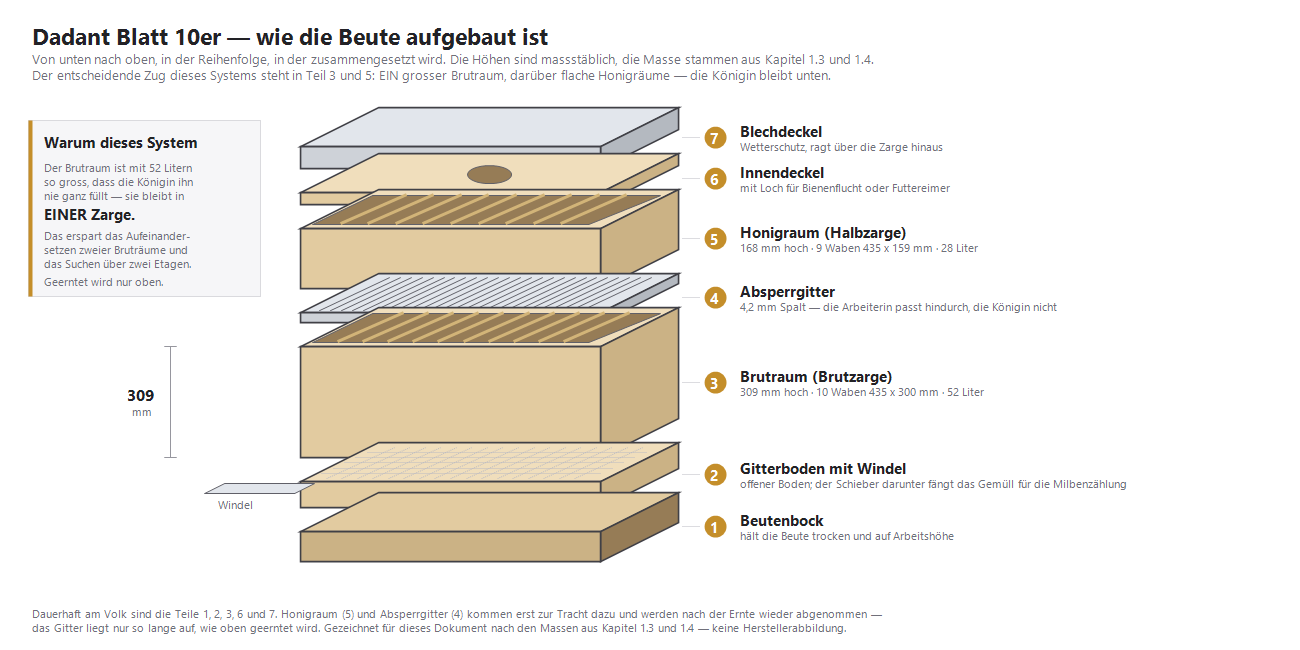
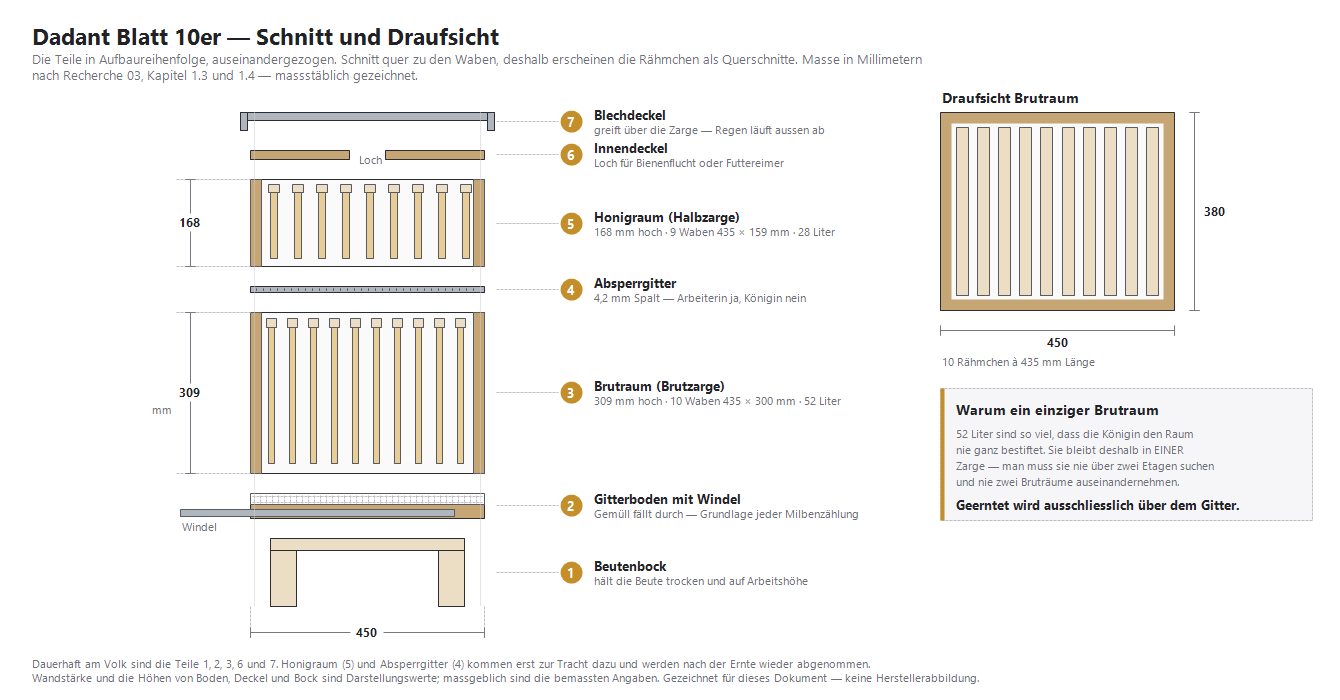
v1.52.0: Bildansicht nutzt den ganzen Bildschirm + Dadant als Schnittzeichnung
Die Vollbild-Ansicht zog sich bisher auf die Bildgrösse zusammen. Bei einer
breiten, flachen Zeichnung blieb dadurch ein schmaler Streifen mit viel
leerem Rand — das Gegenteil von "gross ansehen". Jetzt füllt das Bild die
ganze Fläche; Beschriftung und Schaltflächen liegen darüber statt daneben.

Neuer Test misst, dass die Ansicht wirklich Bildschirmgrösse hat. Er wurde
mit einem geschrumpften Dialog rot gemacht — beim ersten Versuch war die
Gegenprobe selbst fehlerhaft (das sed traf nichts), was zunächst wie ein
untauglicher Guard aussah.

Dazu die neu gezeichnete Dadant-Darstellung (Details im Imkerei-Repo).

375 Tests grün, analyze clean, live verifiziert.

diff --git a/lib/shared/widgets/bild_vollbild.dart b/lib/shared/widgets/bild_vollbild.dart
@@ -1,13 +1,18 @@
 import 'package:flutter/material.dart';
 import 'package:bienen_app/core/theme/app_tokens.dart';
 
-/// Zeigt ein Bild formatfüllend mit Zoom — für Abbildungen der Recherchen
+/// Zeigt ein Bild bildschirmfüllend mit Zoom — für Abbildungen der Recherchen
 /// ebenso wie für eigene Fotos.
 ///
 /// Warum überhaupt: Viele Abbildungen sind Zeichnungen mit Zahlen und
 /// Beschriftungen (Jahresraster, Explosionsdarstellung, Fütterungsfahrplan).
-/// In Dokumentbreite auf einem Handy sind die Zahlen darin nicht lesbar; ohne
-/// Zoom ist die Abbildung dort wertlos.
+/// In Dokumentbreite auf einem Handy sind die Zahlen darin nicht lesbar.
+///
+/// Bewusst über die **ganze** Bildschirmfläche und nicht in einem Dialog, der
+/// sich auf die Bildgrösse zusammenzieht: Eine breite, flache Zeichnung ergäbe
+/// sonst einen schmalen Streifen mit viel leerem Rand — also genau das
+/// Gegenteil von „gross ansehen". Beschriftung und Schaltflächen liegen
+/// deshalb **über** dem Bild, statt ihm Platz wegzunehmen.
 ///
 /// [aktionen] hängt zusätzliche Schaltflächen neben „Schliessen" — die eigenen
 /// Fotos reichen darüber ihr Löschen ein.
@@ -17,16 +22,20 @@ Future<void> zeigeBildGross(
   String? beschriftung,
   List<Widget> aktionen = const [],
 }) {
+  final hatText = beschriftung != null && beschriftung.trim().isNotEmpty;
+
   return showDialog<void>(
     context: context,
-    barrierColor: Colors.black87,
-    builder: (dialogContext) => Dialog(
-      insetPadding: const EdgeInsets.all(BeeTokens.md),
-      backgroundColor: Colors.transparent,
-      child: Column(
-        mainAxisSize: MainAxisSize.min,
+    barrierColor: Colors.black,
+    // Ohne das rechnet der Dialog mit einer Mindestbreite und lässt Ränder.
+    useSafeArea: false,
+    builder: (dialogContext) => Dialog.fullscreen(
+      backgroundColor: Colors.black,
+      child: Stack(
         children: [
-          Flexible(
+          // Das Bild bekommt die gesamte Fläche; BoxFit.contain hält die
+          // Proportion, der Zoom holt die Details heran.
+          Positioned.fill(
             child: InteractiveViewer(
               // 6× reicht, um auch kleine Beschriftungen in den Zeichnungen
               // zu lesen; darüber wird das Bild nur noch unscharf.
@@ -34,39 +43,58 @@ Future<void> zeigeBildGross(
               child: Image(
                 image: bild,
                 fit: BoxFit.contain,
-                errorBuilder: (_, _, _) => const Padding(
-                  padding: EdgeInsets.all(BeeTokens.xl),
-                  child: Text('Bild konnte nicht geladen werden.',
-                      style: TextStyle(color: Colors.white)),
+                errorBuilder: (_, _, _) => const Center(
+                  child: Padding(
+                    padding: EdgeInsets.all(BeeTokens.xl),
+                    child: Text('Bild konnte nicht geladen werden.',
+                        style: TextStyle(color: Colors.white)),
+                  ),
                 ),
               ),
             ),
           ),
-          if (beschriftung != null && beschriftung.trim().isNotEmpty)
-            Padding(
-              padding: const EdgeInsets.only(
-                  top: BeeTokens.md, left: BeeTokens.md, right: BeeTokens.md),
-              child: Text(
-                beschriftung,
-                textAlign: TextAlign.center,
-                style: const TextStyle(color: Colors.white),
+
+          // Bedienleiste oben rechts — ausserhalb des Bildes wäre kein Platz.
+          Positioned(
+            top: 0,
+            right: 0,
+            child: SafeArea(
+              child: Padding(
+                padding: const EdgeInsets.all(BeeTokens.sm),
+                child: Row(
+                  mainAxisSize: MainAxisSize.min,
+                  children: [
+                    ...aktionen,
+                    IconButton(
+                      tooltip: 'Schliessen',
+                      onPressed: () => Navigator.pop(dialogContext),
+                      icon: const Icon(Icons.close, color: Colors.white),
+                    ),
+                  ],
+                ),
               ),
             ),
-          Padding(
-            padding: const EdgeInsets.only(top: BeeTokens.sm),
-            child: Wrap(
-              alignment: WrapAlignment.center,
-              spacing: BeeTokens.md,
-              children: [
-                ...aktionen,
-                TextButton(
-                  onPressed: () => Navigator.pop(dialogContext),
-                  child: const Text('Schliessen',
-                      style: TextStyle(color: Colors.white)),
-                ),
-              ],
-            ),
           ),
+
+          if (hatText)
+            Positioned(
+              left: 0,
+              right: 0,
+              bottom: 0,
+              child: SafeArea(
+                child: Container(
+                  width: double.infinity,
+                  padding: const EdgeInsets.symmetric(
+                      horizontal: BeeTokens.lg, vertical: BeeTokens.md),
+                  color: Colors.black54,
+                  child: Text(
+                    beschriftung,
+                    textAlign: TextAlign.center,
+                    style: const TextStyle(color: Colors.white, fontSize: 13),
+                  ),
+                ),
+              ),
+            ),
         ],
       ),
     ),

diff --git a/test/shared/bild_vollbild_test.dart b/test/shared/bild_vollbild_test.dart
@@ -42,7 +42,7 @@ void main() {
 
       // Ohne InteractiveViewer gäbe es kein Zoom — genau darum geht es.
       expect(find.byType(InteractiveViewer), findsOneWidget);
-      expect(find.text('Schliessen'), findsOneWidget);
+      expect(find.byTooltip('Schliessen'), findsOneWidget);
     });
 
     testWidgets('zeigt die Beschriftung, wenn eine da ist', (tester) async {
@@ -71,14 +71,27 @@ void main() {
       await tester.pumpAndSettle();
 
       expect(find.text('Löschen'), findsOneWidget);
-      expect(find.text('Schliessen'), findsOneWidget);
+      expect(find.byTooltip('Schliessen'), findsOneWidget);
+    });
+
+    testWidgets('nutzt die ganze Bildschirmfläche', (tester) async {
+      await tester.pumpWidget(_seite());
+      await tester.tap(find.text('öffnen'));
+      await tester.pumpAndSettle();
+
+      // Ein Dialog, der sich auf die Bildgrösse zusammenzieht, liesse bei
+      // einer breiten Zeichnung nur einen schmalen Streifen übrig.
+      final flaeche = tester.getSize(find.byType(InteractiveViewer));
+      final schirm = tester.view.physicalSize / tester.view.devicePixelRatio;
+      expect(flaeche.width, schirm.width);
+      expect(flaeche.height, schirm.height);
     });
 
     testWidgets('Schliessen schliesst die Ansicht', (tester) async {
       await tester.pumpWidget(_seite());
       await tester.tap(find.text('öffnen'));
       await tester.pumpAndSettle();
-      await tester.tap(find.text('Schliessen'));
+      await tester.tap(find.byTooltip('Schliessen'));
       await tester.pumpAndSettle();
 
       expect(find.byType(InteractiveViewer), findsNothing);

diff --git a/assets/recherche/03_Dadant_Blatt_Beutensystem.md b/assets/recherche/03_Dadant_Blatt_Beutensystem.md
@@ -35,9 +35,9 @@ Das Dadant-Beutensystem wurde um 1874 von **Charles Dadant** in den USA entwicke
 - Trennung Brut-/Honigraum durch **Absperrgitter**
 - Brutraumsteuerung durch **Schied** (Trennbrett)
 
-![Explosionsdarstellung der Dadant-Blatt-Beute mit allen Teilen von unten nach oben](bilder/03_beute_explosion.png)
+![Technische Zeichnung der Dadant-Beute: Vertikalschnitt aller Teile und Draufsicht auf den Brutraum](bilder/03_beute_explosion.png)
 
-*Die ganze Beute in ihrer Stapelfolge. Von unten nach oben: Beutenbock, Gitterboden mit Schieber, Brutraum, Absperrgitter, Honigraum, Innendeckel, Blechdeckel. Ein Volk braucht dauerhaft nur die Teile 1–6 — der Honigraum kommt erst zur Tracht dazu und wird nach der Ernte wieder abgenommen. Die Höhenverhältnisse sind massstäblich nach den Werten aus Kap. 1.3/1.4 gezeichnet; besonders gut zu sehen ist, wie flach die Halbzarge gegenüber dem Brutraum ausfällt — das ist der Grund, warum man sie auch voll noch heben kann. Eigene Zeichnung.*
+*Die Beute als technische Zeichnung — links der Vertikalschnitt mit allen Teilen in Aufbaureihenfolge, rechts die Draufsicht auf den Brutraum. Weil der Schnitt quer zu den Waben liegt, erscheinen die Rähmchen als Querschnitte; man sieht dadurch auf einen Blick, dass unten zehn und oben neun davon stehen. Bemasst sind die beiden Werte, die das System ausmachen: 309 mm Brutraum gegen 168 mm Halbzarge. Dauerhaft am Volk sind Bock, Boden, Brutraum, Innen- und Blechdeckel — Honigraum und Absperrgitter kommen erst zur Tracht dazu. Eigene Zeichnung nach den Massen aus Kap. 1.3/1.4.*
 
 ### 1.3 Exakte Masse -- Dadant Blatt
 
